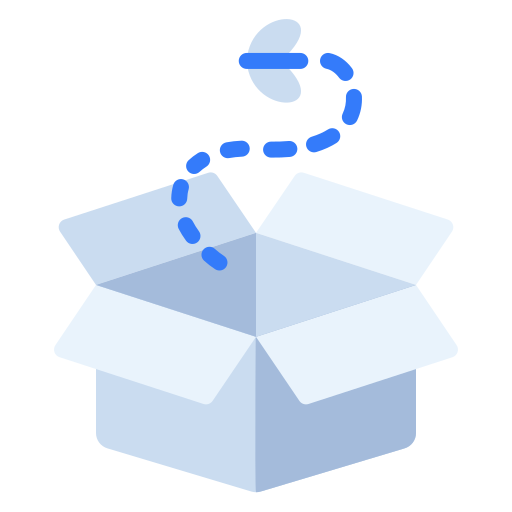
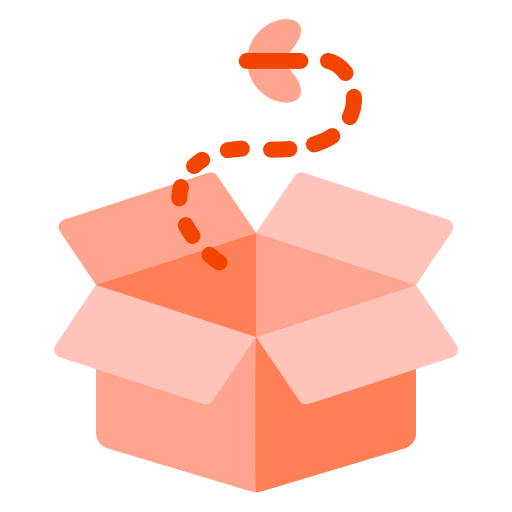
changes

diff --git a/inc/themes/backend/Stackmin/Assets/css/style.css b/inc/themes/backend/Stackmin/Assets/css/style.css
@@ -427,7 +427,9 @@ body.sidebar-dark .sidebar .nav-line{
 	.btn-open-sidebar{
 		display: block;
 	}
-
+    .imgg{
+		width:40px!important;
+	}
 	.sub-header{
 		display: block;
 		position: relative;

diff --git a/inc/core/Profile/Views/quick.php b/inc/core/Profile/Views/quick.php
@@ -4,7 +4,7 @@
 			<div class="card">
 				<div class="card-body bg-gray-800 shadow b-r-15 d-flex p-0 justify-content-between">
 					
-					<div class="text-gray-100 p-25 flex-fill miw-220">
+					<div class="text-gray-100 p-25 flex-fill miw-200">
 						<div class="fw-6 text-gray-100 fs-16"><span class="d-inline-block text-over mw-210">Welcome 🎉 <?php _ec( get_user("fullname") )?> </div>
 						<div class="fs-12">
 							<?php
@@ -31,21 +31,26 @@
 						</div>
 						<a href="<?php _ec( base_url("profile/index/plan") )?>" class="btn bg-gray-100 b-r-6 text-gray-900 mt-2 b-r-15 fw-5"><?php _e("View plan")?></a>
 					</div>
-					<div class="flex-fill pt-5">
-						<img src="<?php _ec( get_module_path( __DIR__, "Assets/img/favicon.png" ) )?>" class="w-99"> 
+					
+					
+					<div class="flex-fill pt-4">
+						<img src="<?php _ec( get_module_path( __DIR__, "Assets/img/favicon.png" ) )?>" class="imgg"> 
+					
 					</div>
+					
 
 				</div>
 			</div>
 		</div>
 		<div class="col-md-8 mb-4">
-			<div class="card b-r-15 b-r-15 p-24 border">
-				<div class="card-body d-flex no-update w-100 p-5">
+			<div class="card b-r-15 b-r-15 p-24 border" style="background-color:#FEF4EA!important">
+				<div class="row card-body d-flex no-update w-100 p-5" style="margin-left: 0px;">
 					<?php if (!empty($result)): ?>
 						
 						<?php foreach ($result as $key => $value): ?>
 							<?php if ($value['name']  == "Account manager" || $value['name']  == "File manager" || $value['name']  == "Schedules" ): ?>
-								<a href="<?php _ec( base_url( $value["id"] ) )?>" class="d-block border b-r-15 p-20 miw-200 text-over-all bg-gray-100 me-4 text-center">
+								<div class="col-md-4">
+								<a href="<?php _ec( base_url( $value["id"] ) )?>" class="d-block border b-r-15 p-20 miw-200 text-over-all bg-gray-100 text-center">
 									<div class="fs-50 text-primary">
 										<i class="<?php _ec($value['icon'])?>" style="color: #EF3208"></i>
 									</div>
@@ -54,6 +59,7 @@
 										<?php _e($value['name'])?>
 									</div>
 								</a>
+							</div>
 							<?php endif ?>
 						<?php endforeach ?>
 

diff --git a/inc/core/Users/Views/sidebar.php b/inc/core/Users/Views/sidebar.php
@@ -1,9 +1,9 @@
-<div class="sub-sidebar bg-white d-flex flex-column flex-row-auto">
+<div class="sub-sidebar d-flex flex-column flex-row-auto">
     <div class="d-flex mb-10 p-20">
         <div class="d-flex align-items-center w-lg-400px">
             <form class="w-100 position-relative ">
                 <div class="input-group sp-input-group">
-                  <span class="input-group-text bg-light border-0 fs-20 bg-gray-100 text-gray-800" id="sub-menu-search"><i class="fad fa-search"></i></span>
+                  <span class="input-group-text  border-0 fs-20  text-gray-800" id="sub-menu-search"><i class="fad fa-search"></i></span>
                   <input type="text" class="form-control form-control-solid ps-15 bg-light border-0 search-input" data-search="search-item" name="search" value="" placeholder="<?php _e("Search")?>" autocomplete="off">
                 </div>
             </form>
@@ -39,7 +39,7 @@
                     <div class="d-flex align-items-center mb-10 ">
                         <div class="symbol symbol-40px p-r-10">
                             <span class="symbol-label border bg-white">
-                                <i class="fad fa-key fs-18 text-danger"></i>
+                                <i class="fad fa-key fs-18 text-primary"></i>
                             </span>
                         </div>
                     </div>
@@ -57,7 +57,7 @@
                     <div class="d-flex align-items-center mb-10 ">
                         <div class="symbol symbol-40px p-r-10">
                             <span class="symbol-label border bg-white">
-                                <i class="fad fa-chart-pie align-self-center fs-18 text-success"></i>
+                                <i class="fad fa-chart-pie align-self-center fs-18 text-primary"></i>
                             </span>
                         </div>
                     </div>

diff --git a/inc/themes/backend/Stackmin/Views/sidebar.php b/inc/themes/backend/Stackmin/Views/sidebar.php
@@ -15,6 +15,9 @@
 .custom-border-hover:hover i {
     color: #ff5c35; /* Blue color for the icon */
 }
+.text{
+    color:#ff5c35;
+}
     </style>
 </head>
 
@@ -44,11 +47,13 @@
                 <?php foreach ($top_sidebar as $key => $menus): ?>
                     <?php foreach ($menus as $key => $row): ?>
                         <?php if( ! isset( $row['sub_menu'] ) ){?>
-                            <li class="nav-item  custom-border-hover" style="border-bottom:1px solid rgba(255,255,255, 0.5)">
-                                <a href="<?php _e( base_url( $row['id'] ) )?>" style="padding:0px" class="nav-link d-flex p-t-12 p-b-8 <?php _e( uri('segment', 1) == $row['id']?'active text-primary':'hoverable' )?>" <?php _ec( ( get_option("sidebar_type", "sidebar-small") == "sidebar-close"  )?'title="'.$row['name'].'" data-toggle="tooltip" data-placement="right"':'' )?> >
-                                    <i class="<?php _e( $row['icon'] )?> icon-color  fs-20"  ></i>
-                                </a>
-                            </li>
+                            <a href="<?php _e(base_url($row['id'])) ?>">
+    <li class="nav-item custom-border-hover <?php _e(uri('segment', 1) == $row['id'] ? 'bg-light' : '') ?>" style="border-bottom:1px solid rgba(255,255,255, 0.5)">
+        <p style="padding:0px" class="nav-link d-flex p-t-12 p-b-8 <?php _e(uri('segment', 1) == $row['id'] ? 'active text-primary' : 'hoverable') ?>" <?php _ec(get_option("sidebar_type", "sidebar-small") == "sidebar-close" ? 'title="' . $row['name'] . '" data-toggle="tooltip" data-placement="right"' : '') ?>>
+        <i class="<?php _e($row['icon']) ?> icon-color fs-20 <?php _e(uri('segment', 1) == $row['id'] ? 'text' : '') ?>"></i>
+        </p>
+    </li>
+</a>
                         <?php }else{?>
                             
                         <?php }?>

diff --git a/inc/core/Post/Views/insights.php b/inc/core/Post/Views/insights.php
@@ -44,21 +44,23 @@
     </div>
 	
 </div>
-
-<div class="card b-r-6 mb-4 border">
-	<div class="card-header">
-		<div class="card-title">
-			<?php _e("Report post by status")?>
+<div class="row">
+<div class="col-md-4 mb-4">
+	<div class="card b-r-6 mb-4 border">
+		<div class="card-header">
+			<div class="card-title">
+				<?php _e("Report post by status")?>
+			</div>
 		</div>
-	</div>
-	<div class="card-body">
-		<div id="post_by_status_chart"></div>
-		<h3 class="text-center"></h3>
+		<div class="card-body">
+			<div id="post_by_status_chart"></div>
+			<h3 class="text-center"></h3>
+		</div>
 	</div>
 </div>
 
-<div class="row">
-	<div class="col-md-6 mb-4">
+
+	<div class="col-md-4 mb-4">
 	    <div class="card h-100 mb-4 border">
 	        <div class="card-header">
 	            <div class="card-title">
@@ -95,7 +97,7 @@
 	    </div>
 	</div>
 
-	<div class="col-md-6 mb-4">
+	<div class="col-md-4 mb-4">
 	    <div class="card h-100 mb-4 border">
 	        <div class="card-header">
 	            <div class="card-title">

diff --git a/inc/core/Ai_prompt_templates/Views/sidebar.php b/inc/core/Ai_prompt_templates/Views/sidebar.php
@@ -1,9 +1,9 @@
-<div class="sub-sidebar bg-white d-flex flex-column flex-row-auto">
+<div class="sub-sidebar d-flex flex-column flex-row-auto">
     <div class="d-flex mb-10 p-20">
         <div class="d-flex align-items-center w-lg-400px">
             <form class="w-100 position-relative ">
                 <div class="input-group sp-input-group">
-                  <span class="input-group-text bg-light border-0 fs-20 bg-gray-100 text-gray-800" id="sub-menu-search"><i class="fad fa-search"></i></span>
+                  <span class="input-group-text  border-0 fs-20 text-gray-800" id="sub-menu-search"><i class="fad fa-search"></i></span>
                   <input type="text" class="form-control form-control-solid ps-15 bg-light border-0 search-input" data-search="group-item" name="search" value="" placeholder="<?php _e("Search")?>" autocomplete="off">
                 </div>
             </form>

diff --git a/inc/core/Post/Views/report.php b/inc/core/Post/Views/report.php
@@ -1,5 +1,5 @@
 <div class="row mb-5">
-	<div class="col-md-4">
+	<div class="col-md-12">
 	<form class="actionForm" action="<?php _e( base_url("post/report/".uri("segment", 4)) )?>" method="POST" data-result="html" data-content="insights" date-redirect="false" data-loading="false">
 	    <div class="card mb-4 bg-white px-4 shadow-none border b-r-10">
 	        <div class="card-header px-0 border-bottom-0">
@@ -25,10 +25,8 @@
 	    </div>
 	</form>
 	</div>
-	<div class="col-md-8">
 	<div class="insights">
 		<?php _ec( $this->include('Core\Post\Views\loading'), false);?>
-	</div>
 	</div>
 </div>
 

diff --git a/inc/core/Post/Views/index.php b/inc/core/Post/Views/index.php
@@ -7,7 +7,7 @@ if ( !$request->isAJAX() ) {
     ?>
 
     <?php echo $this->section('content') ?>
-
+    <?php _ec( $this->include('Core\Post\Views\sidebar'), false);?>
     <form class="main-wrapper flex-grow-1 n-scroll actionForm <?php _ec( $config['id']."-main" )?>" action="<?php _e( get_module_url("save") )?>" method="POST" data-call-after="Post.confirm(result);" data-redirect="<?php _ec( get_module_url() )?>" >
         <?php echo $content ?>
     </form>

diff --git a/inc/core/Dashboard/Views/sidebar.php b/inc/core/Dashboard/Views/sidebar.php
@@ -25,7 +25,7 @@
 
 <div class="sub-sidebar d-flex flex-column flex-row-auto" style="height: 100%;">
 
-    <div class="d-flex mb-10  p-l-10 p-r-20 m-b-12">
+    <div class="p-20 d-flex mb-10  p-l-10 p-r-20 m-b-12">
     <div class="sidebar-nav sidebar-nav-one d-flex flex-column flex-column-fluid w-100 pt-lg-0 hide-x-scroll">
             <ul class="nav flex-column">
              <li class="nav-item custom-hover-effect">

diff --git a/inc/core/File_manager/Views/index.php b/inc/core/File_manager/Views/index.php
@@ -7,7 +7,7 @@ if ( !$request->isAJAX() ) {
     ?>
 
     <?php echo $this->section('content') ?>
-
+    <?php _ec( $this->include('Core\Bulk_post\Views\sidebar'), false);?>
     <div class="main-wrapper flex-grow-1 n-scroll d-flex <?php _e( str_replace("_", "-", $id) )?>" data-loading="false">
         <?php echo $content ?>
         <?php _e( $this->include('Core\File_manager\Views\sidebar'), false);?>

diff --git a/inc/core/Plugins/Views/index.php b/inc/core/Plugins/Views/index.php
@@ -7,7 +7,7 @@ if ( !$request->isAJAX() ) {
     ?>
 
     <?php echo $this->section('content') ?>
-
+    <?php _ec( $this->include('Core\Bulk_post\Views\sidebar'), false);?>
     <form class="main-wrapper flex-grow-1 n-scroll actionForm" action="<?php _e( get_module_url("save") )?>" method="POST">
         <?php if (post("error")): ?>
         <div class="container pt-5">

diff --git a/inc/core/Drafts/Views/index.php b/inc/core/Drafts/Views/index.php
@@ -7,7 +7,7 @@ if ( !$request->isAJAX() ) {
     ?>
 
     <?php echo $this->section('content') ?>
-
+    <?php _ec( $this->include('Core\Bulk_post\Views\sidebar'), false);?>
     <form class="main-wrapper flex-grow-1 n-scroll actionForm" action="<?php _e( get_module_url("save") )?>" method="POST">
         <?php echo $content ?>
     </form>
